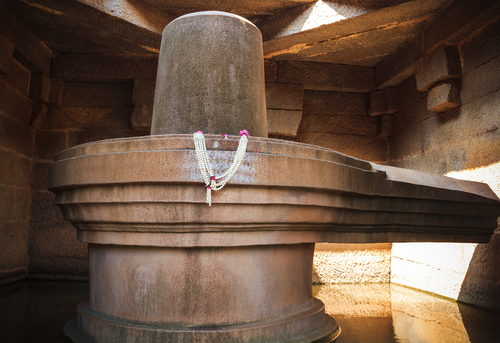
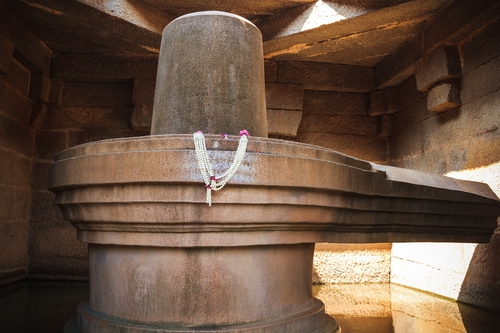
Edits to images plus complete page edited

diff --git a/page.html b/page.html
@@ -58,7 +58,7 @@ License URL: http://creativecommons.org/licenses/by/3.0/
             </div>
 		
 			<div class="banner-bottom left-right-margin">
-                <h3 class = "center-align">KHAJJIAR</h3>
+                <h3 class = "center-align">HAMPI</h3>
                 <hr>						
             </div>
 </div>
@@ -101,63 +101,45 @@ After a grand breakfast and sumptuous lunch at the Royal Orchid 24X7 Café, we l
 <p>Hampi is split into two parts – south and north of Tungabadhra river strip in between. Barney is much better than me when it comes to planning and rationalising. He suggested that we should cover the south part on day-1 and north on day-2 for we were too late to cover both the same day. South part in itself has quite a lot to explore. We took an auto from outside the hotel to the main Hampi site for cabs unnecessarily charge more than 10X of autos.</p><br>
 
 <p>The whole Hampi site is quite wide & vast and one cannot cover the same on foot, especially under the hot summer sun. We carried the map of all places to visit which the hotel provided and marked the best places we wanted to visit. We hired a guide who claimed to have an authorized license from the state government. And it turned out a good decision after all because the information he gave us while vising each of the sites was not only rich with respect to its history but also very interesting.</p><br>
-                    
-<img class="right-align" src="images/Hampi_images/Ganesha%20Temple.jpg">
-                    
-</p><br>
-            <img class="left-align" src="images/hampi/image4-25.jpg">
-            
-            We started our site seeing with Sasivekalu Ganesha with perfectly carved pillars and stones. After that, we walked to the underground Shiv temple with the famous 3 meters long Shivlinga. It’s said that the Shivlinga was carved out of one single stone. One interesting fact was that the Shivlinga always remains immersed in natural water.</p><br>
+                        <p><img class="right-align" src="images/Hampi_images/Shivlinga.jpg"></p>
+<p><img class="right-align" src="images/Hampi_images/Ganesha%20Temple.jpg"> 
+<p>We first visited Sasivekalu Ganesha with beautiful stone work and then moved to Shiv temple with the famous 3 Mts long Shivlinga. It’s said that the Shivlinga was carved out of one single stone and it always remains immersed in natural water all through the year.</p><br>
+                    <img class="left-align" src="images/Hampi_images/Lotus%20Mahal%20-%20place%20where%20the%20Queen%20used%20to%20reside%20for%20her%20leisure%20time.jpg">   
+                     <img class="left-align" src="images/Hampi_images/Elephant%20Stables%20in%20royal%20empire.jpg">
+<p>we then moved King’s palace which had gone underground. The Lotus Mahal and Queen’s Bath were two exquisitely wonderful monuments inside. There are interesting stories about what Queens did in their leisure time. Elephant Stable is another popular and beautiful edifice there.</p><br>
+       
+   <img class="right-align" src="images/Hampi_images/Virupaksha%20Temple.jpg">
+<img class="right-align" src="images/Hampi_images/Stone%20chariot%20in%20Vittalla%20Temple.jpg">
+<p>Next, we moved to Vijay Vitthal Temple where we saw the huge stone chariot. The temple was in ruins, but detailed and beautifully etched small carvings on stone pillars were striking! Several Bollywood movies scenes and songs have been shot at the temple premises.</p><br><br>
 
-<img class="right-align" src="images/hampi/image5-27.jpg">
-   
-
-
-
-
-<p>The auto then took us to the King’s palace area which had gone underground completely. Lotus Mahal and Queen’s bath were two exquisitely wonderful monuments situated in the same area. There were many interesting stories regarding the king and two queens for whom he had built two separate structures for leisure.</p><br>
-<img class="left-align" src="images/hampi/image6-30.jpg">
-
-
-
- <p>We then moved to Elephant stable which is yet another exquisitely carved structure in Hampi. We got a lot of pictures clicked there owing to the perfect historical set up it offered.</p><br>
-        <img class="right-align" src="images/hampi/image7-33.jpg">
-
-<p>Next, we moved to Vijay Vitthal Temple where we saw the huge stone chariot. The temple structure was half in ruins. However, we couldn’t help notice the detailed carvings on the pillars and how beautifully small structures were etched on stones making the temple an extremely beautiful archaeological site. The guide informed us that several Bollywood movies scenes and songs have been shot at the same location.</p><br>
-        <img class="left-align" src="images/hampi/image8-36.jpg">
-
-
-   
-
+     
+<img class="left-align" src="images/Hampi_images/Mango%20Tree.jpg">
 <p>Our last historical destination for the day was Virupaksha temple – the most popular and recognized temple among the group of temples. They say people around Hampi, even big cities, believe that marrying at Virupaksha temple is auspicious and is considered to be complete.</p><br>
-        <img class="right-align" src="images/hampi/image11-45.jpg">
 
 
+<p>After we ended the excursion, it was already around 6 PM. We then planned to sit for a bit at one of the most popular eateries at Hampi called “Mango Tree”. The place has a very goan feel to it with mattresses laid out on the floor along with floor tables and crowd mainly consisting of foreigners. The place serves awesome masala papad and ginger tea.</p>
 
+<p>We took at auto back to the hotel, rested for a while before enjoying free dinner at the hotel premises, followed by a walk around the hotel grounds. Day-1 well spent :)</p><br> <br>
 
-<p>After we ended the excursion, it was already around 6 PM. We then planned to sit for a bit at one of the most popular eateries at Hampi called “Mango Tree”. The place has a very goan feel to it with mattresses laid out on the floor along with floor tables and crowd mainly consisting of foreigners. The place serves awesome masala papad and ginger tea. Don’t forget to tell the waiters that you want tea with milk, in case you’re fond of the standard Indian well brewed tea with milk and strong ginger flavour. We also had pasta Arabiata which was quite cheesy and oily. However, the chillness in the whole ambiance made up for it!</p><br>
-
-<p>We took at auto back to the hotel, rested for a while before enjoying free dinner at the hotel premises, followed by a walk around the hotel grounds. Day-1 well spent :)</p><br>
-
-<p><b>Day-2</b></p><br>
-<p>We thought of exploring the other side of Tungabhadra river the next day. We woke up just in time for buffer breakfast at the hotel cafe. Two things we loved at the Royal Orchid breakfast - their dosa and the buttermilk. Barney likes having a heavy breakfast and buffet laid at hotel every morning did complete justice to his needs. We left the hotel around 12 PM to the ghat from where boats leave at a regular intervals from one point to another. These boats are shared ones and help the tourists go from the south side to the north side of Hampi through crossing the river. However jazzy though it may sound, the boat ride is only 5 minutes long. If you seek more adventure, you could even take one of those small raft like boats called Coracle. They are available too at the same ghats from where all the other boats leave.</p><br>
-    <img class="left-align" src="images/hampi/image13-51.jpg">
-
+<p><b>Day-2</b></p>
+                    <img class="right-align" src="images/Hampi_images/Round%20stereotypic%20boats%20at%20Tungabhadra%20river%20crossing.jpg">
+<p>We thought of exploring the other side of Tungabhadra River the next day.</p>
+                    <p>We left the hotel around 12 PM to the ghat from where boats leave at a regular intervals from one point to another. These boats are shared ones and help the tourists go from the south side to the north side of Hampi through crossing the river. However jazzy though it may sound, the boat ride is only 5 minutes long. If you seek more adventure, you could even take one of those small round raft like boats called Coracle. They are available too at the same ghats from where all the other boats leave.</p><br>
 
 <p>Once we reached the other side, we planned to get an activa on rent to go uphill to the Hanuman temple. Activa ride a lone hillside with lush green fields on one side, giant Deccan rocks on the other, and bright blue skies – what else does anyone need after all? Nothing at all! It was ultimate bliss!</p><br>
-        <img class="right-align" src="images/hampi/image14-54.jpg">
-
-
-
-<p>You won’t have to look for these guys who give two wheelers on rent. They’ll approach you the moment you step out of the boat. Don’t forget to bargain with because their first quote is usually a bomb. After a bout of negotiation, we rented it for 300 bucks including 1 litre petrol (or so he claimed). We actually needed stop at one of the small shops in between to get half a litre of petrol filled over and above that since it didn’t seem he gave us the vehicle with complete fuel. Before riding up to the temple, we planned to stop by to grab a quick bite. We explored a few cafeterias on the roadside but most of them seemed to the shut due to the odd timing. Untimately, we landed at FunKy Monkey restaurant.  </p><br>
         <img class="left-align" src="images/hampi/image15-57.jpg">
 
+<p>You won’t have to look for these guys who give two wheelers on rent. They’ll approach you the moment you step out of the boat. After a bout of negotiation, we rented it for 300 bucks including 1 litre petrol (or so he claimed). Later we stopped at one of the kiosks to get half a litre of petrol filled.</p><br>
+                    <p> Before riding up to the temple, we planned to stop by to grab a quick bite. We explored a few cafeterias on the roadside but most of them seemed to the shut due to the odd timing. Untimately, we landed at FunKy Monkey restaurant. It’s not a super popular restaurant the way Mango Tree is; however, the look and feel of the place is very similar. It has jute mattresses placed on the floor along with floor cushions and floor tables. The place is full of colourful danglers and hangings across the walls and open spaces and invites a lot of expats.</p><br>
+                    <img class="right-align" src="images/Hampi_images/Stupendous%20view%20of%20Hampi%20from%20Monkey%20Temple%20on%20top%20of%20Anjaneya%20Hill.jpg">
 
+                    <p> After chilling there for an hour or so, we finally started our active ride to the temple. The surroundings are breathtakingly beautiful! We crossed sun kissed green fields with long light green grass. The Deccan by the other side gave a perfect contrasting shade to the picturesque surroundings. Cool breeze touching our faces during the ride on the sunny afternoon was a special add on to the overall experience.</p><br>
+    <p>The Monkey Temple has around 700 stairs. We parked the active and started climbing the stairs. The temple lies on top of the Anjaneya Hill, which is claimed to be the birthplace of Lord Hanuman. It’s a little bit of an effort to climb up due to the elevation. However, the climb is worth the effort! Once you reach the top, a stupendous view of complete Hampi awaits you. The temple is small yet beautiful. It’s peaceful and serene.</p><br>
+                    <img class="left-align" src="images/Hampi_images/Fountain%20garden.JPG">
+                    <p>We returned the bike and went back to the river crossing area. We took the last boat at 6 PM and went to the other side. We took an auto to Tungabhadra garden which is famous for its musical fountain. It had already started getting a little dark and that’s actually the best time to enjoy the place. The garden is huge divided into various sections. The fountain started playing at around 7. A bunch of school kids had come there for a picnic. Although the fountain not super spectacular, the excitement with which the school kids enjoyed the performance and clapped with every rise and fall of the waters was worth a sight! </p>
+                    <p>We went back to the hotel, grabbed quick dinner and left for our bus. The two day journey was sadly coming to an end. Our experience with the hotel and Hampi overall was brilliant and memorable:)</p><br><br>
 
-        <p>It’s not a super popular restaurant the way Mango Tree is; however, the look and feel of the place is very similar. It has jute mattresses placed on the floor along with floor cushions and floor tables. The place is full of colourful danglers and hangings across the walls and open spaces and invites a lot of expats. The joint also had a small section wherein a bookshelf contained a lot of interesting and popular books. People would pick their book and read it in peace sipping a hot cuppa overlooking the lake which had almost dried up during the summer season. We ordered juice, masala tea and a non veg pizza. The pizza was too cheesy but the masala chai compensated for it. After chilling there for an hour or so, we finally started our active ride to the temple. The surroundings are breathtakingly beautiful! We crossed sun kissed green fields with long light green grass. The Deccan by the other side gave a perfect contrasting shade to the picturesque surroundings. Cool breeze touching our faces during the ride on the sunny afternoon was a special add on to the overall experience. We visited a lake, then a waterfall (or so it was called) and then rode to the temple finally.</p><br>
-    
-        <img class="left-align" src="images/hampi/image16-60.jpg">
-    <p>The Monkey Temple has around 700 stairs. We parked the active and started climbing the stairs. The temple lies on top of the Anjaneya Hill, which is claimed to be the birthplace of Lord Hanuman. It’s a little bit of an effort to climb up due to the elevation; however, the climb is worth the effort! Once you reach the top, a stupendous view of complete Hampi awaits you. The temple is small yet beautiful. It’s peaceful and serene. We went inside and prayed, clicked a few photographs with the beautiful view and came down.</p><br></p></div>
+                    </p></div>
                 <div role="tabpanel" class="tab-pane fade" id="travelstory">
                    <section id="pics">
                        <div class="pin">
